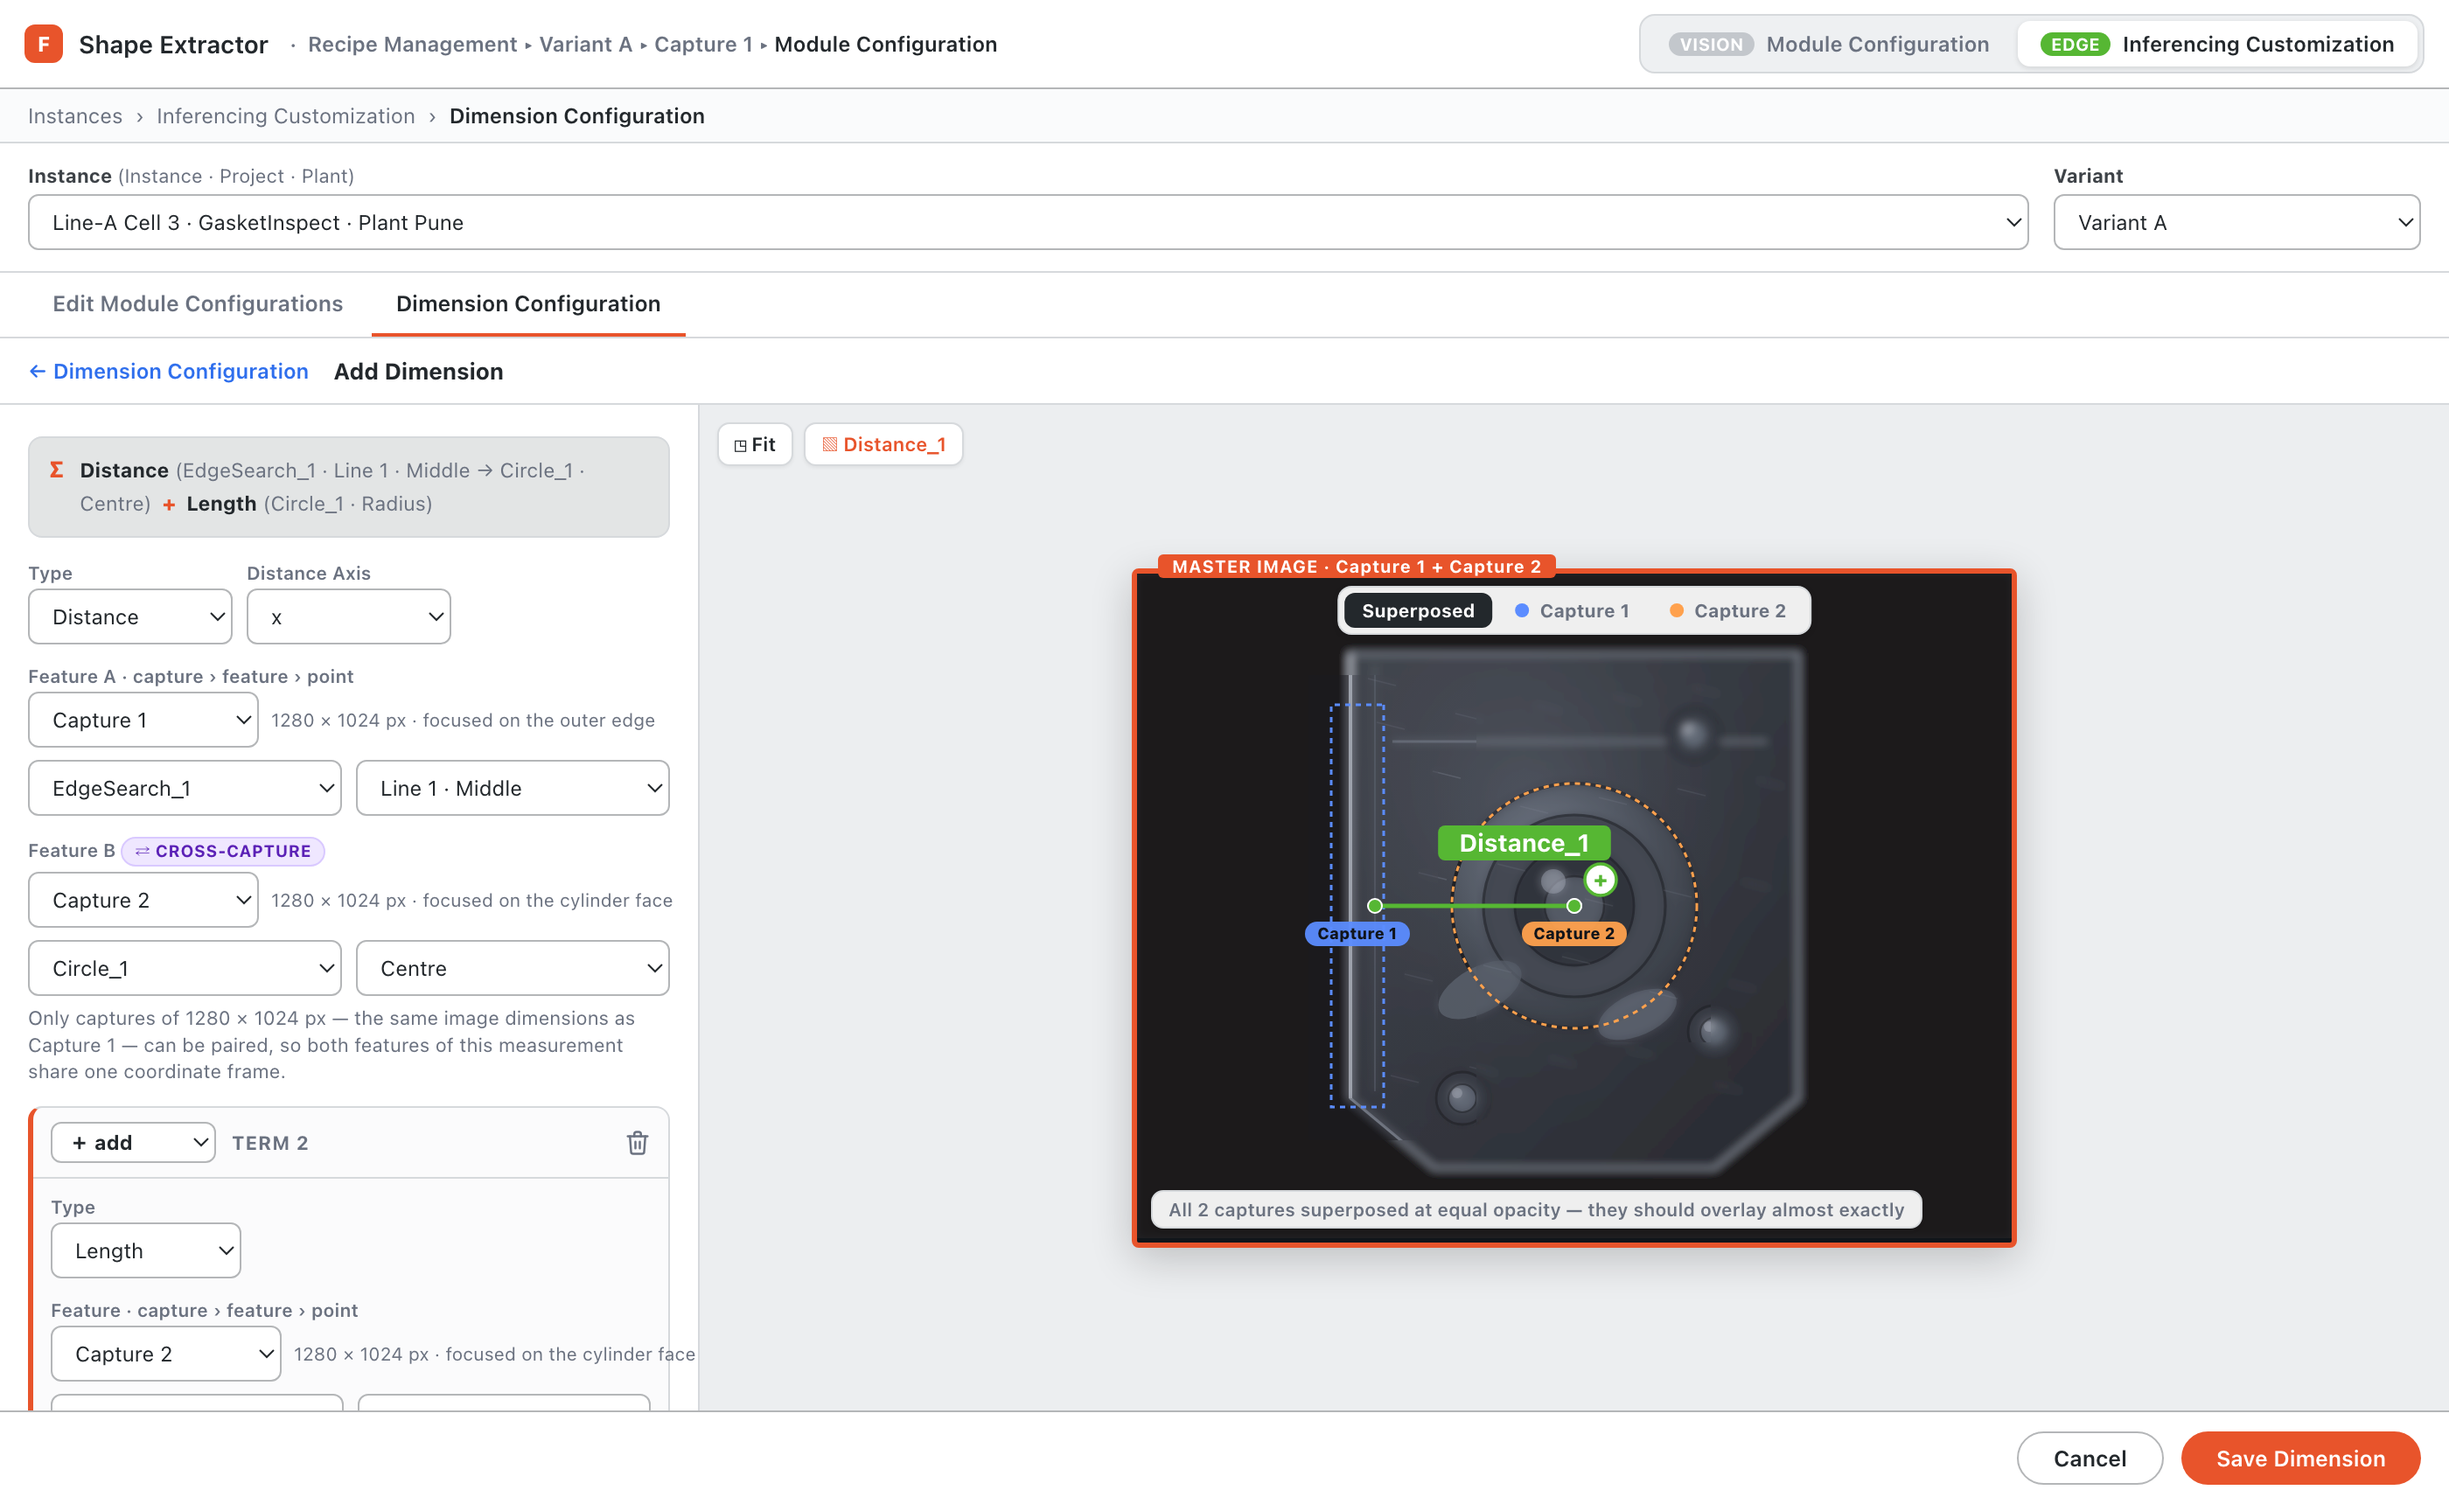
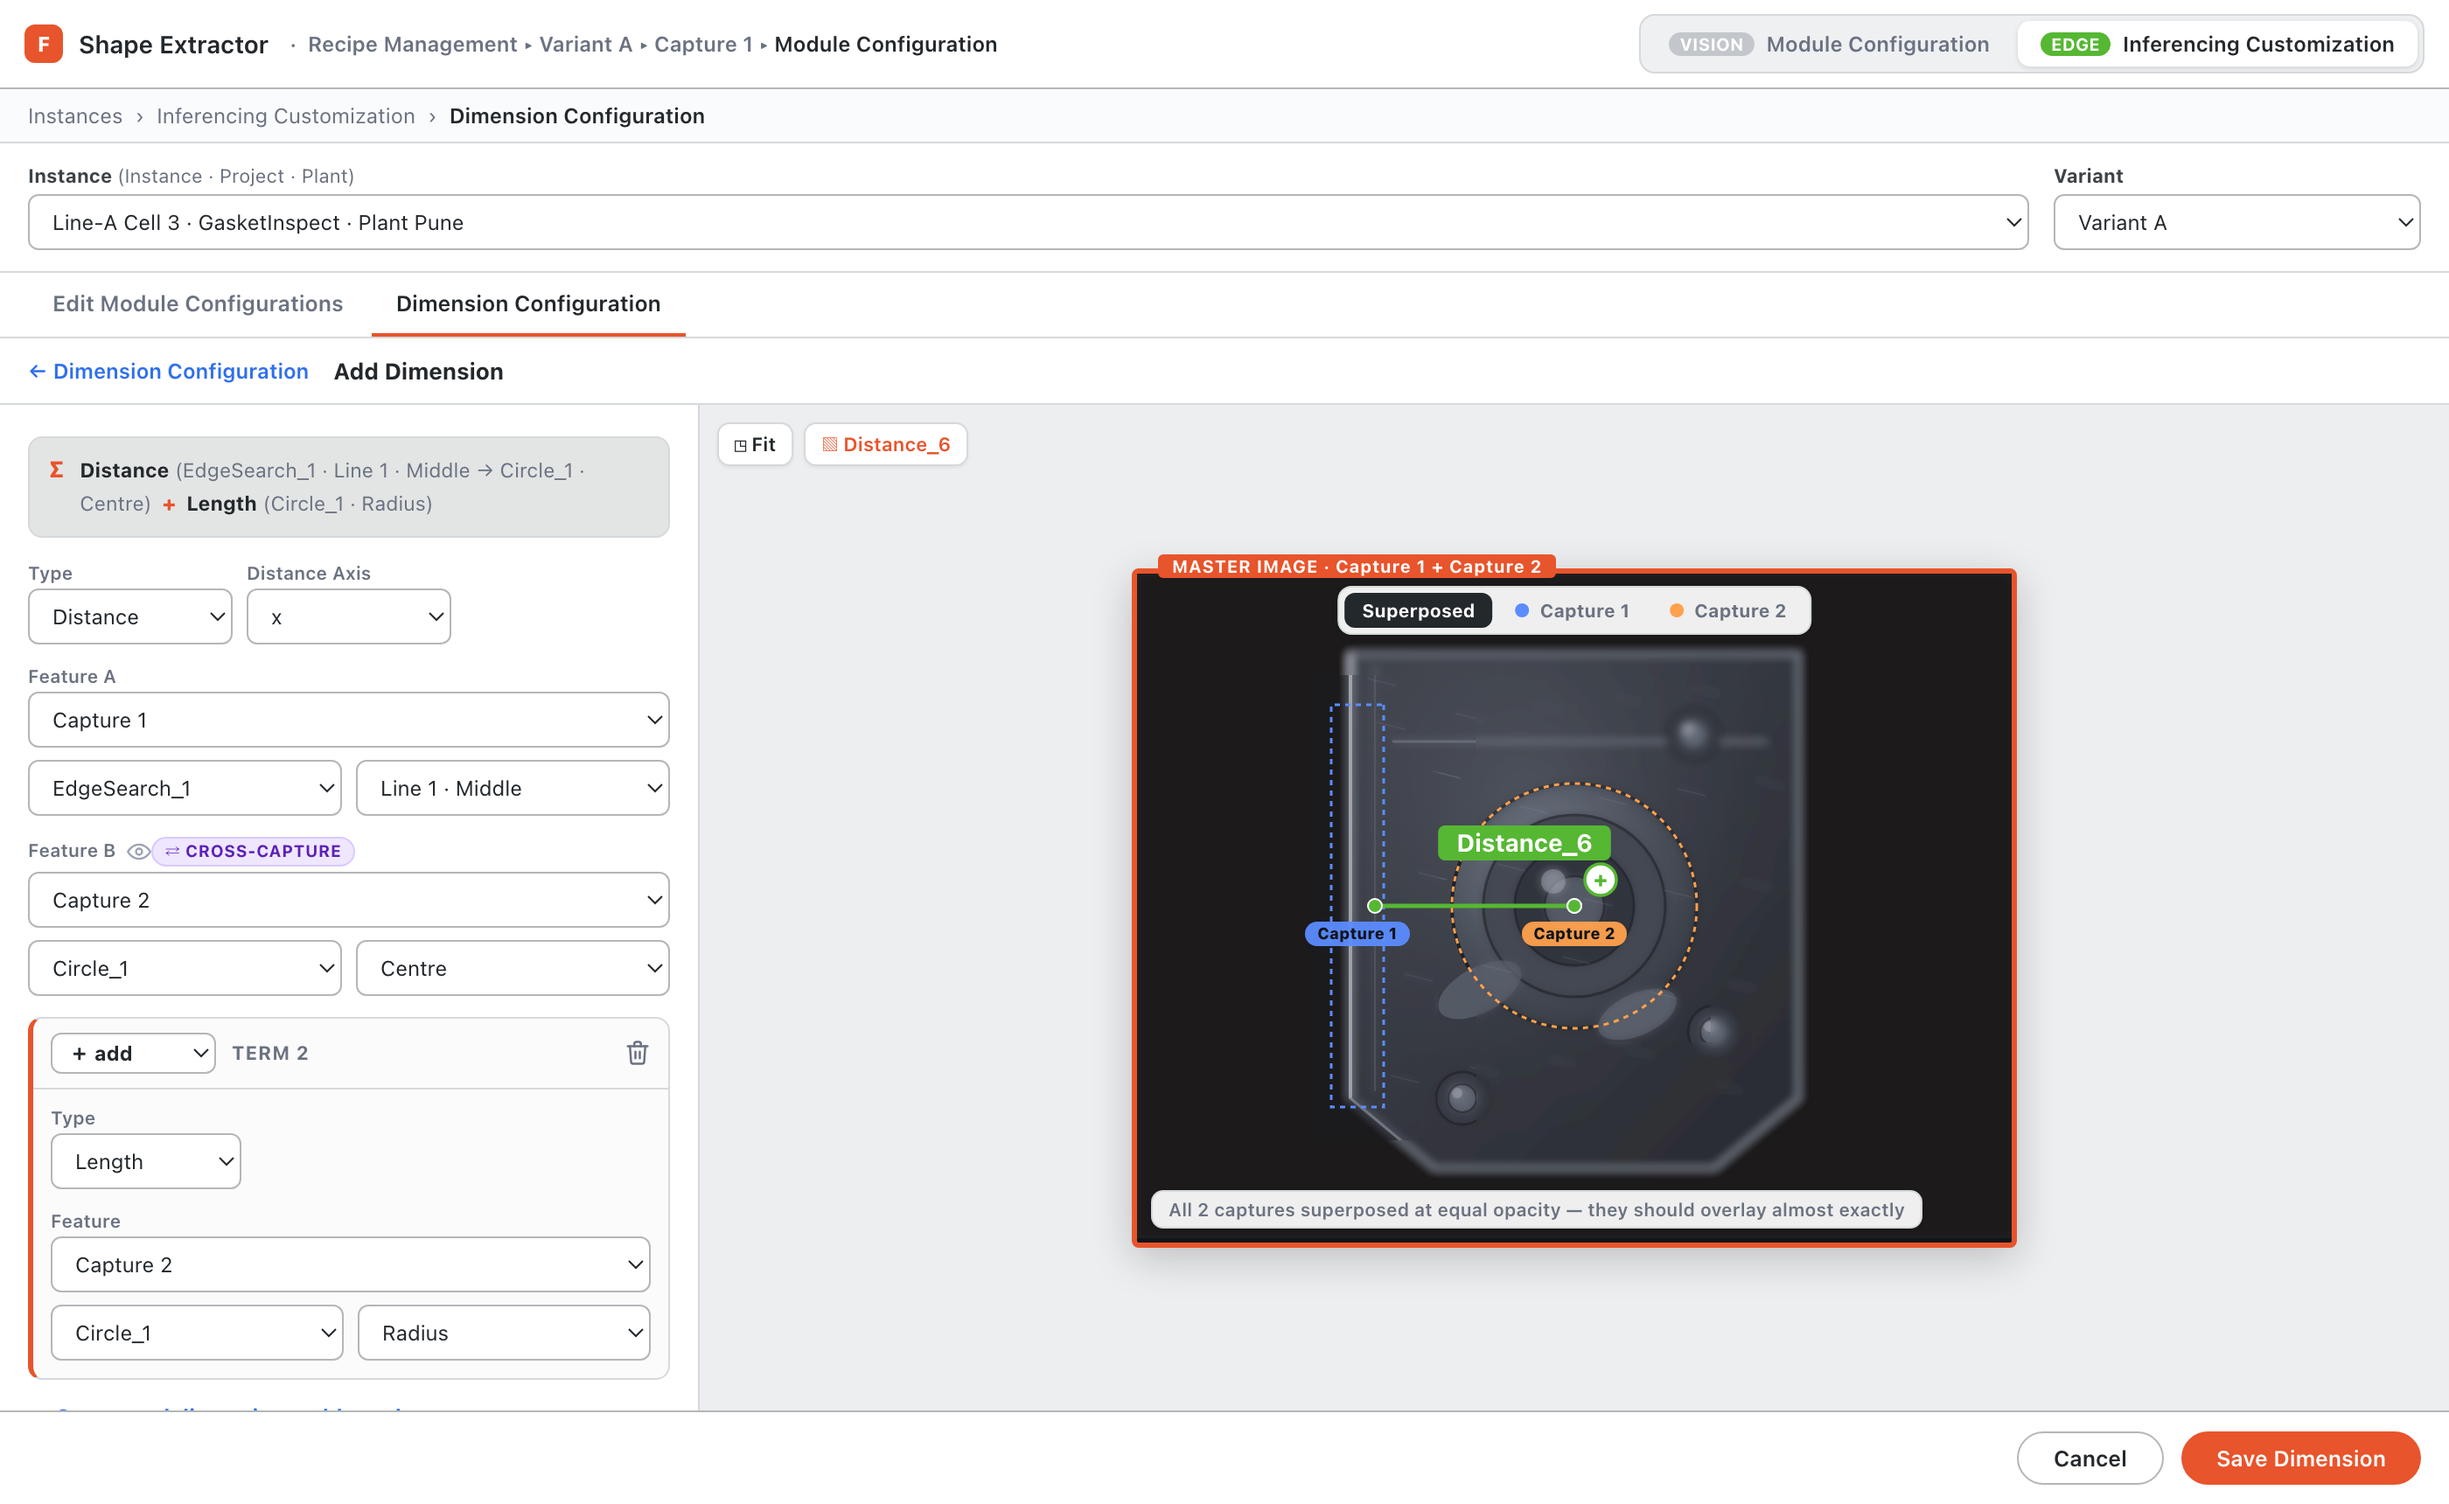
Strip explanatory subtext from the dimension form; pairing rule moves to the eye tooltip

diff --git a/index.html b/index.html
@@ -198,8 +198,7 @@
   .feat .roinput{flex:1;}
   .feat .sel{flex:1;min-width:0;}
   .capline{display:flex;align-items:center;gap:7px;margin-bottom:7px;}
-  .capline .sel{flex:0 0 132px;}
-  .capline .cdims{font-size:10.5px;color:var(--muted);white-space:nowrap;}
+  .capline .sel{flex:1;}
   .xcap{display:inline-flex;align-items:center;gap:5px;background:#efe7ff;color:#5b21b6;border:1px solid #d9c9ff;
     border-radius:20px;padding:2px 9px;font-size:10px;font-weight:700;letter-spacing:.2px;}
   .xcap.sm{padding:1px 7px;font-size:9.5px;}
@@ -1981,7 +1980,6 @@ function FeatureCascade({ node, patch, shapes, typeOpts, onType }) {
       <select className="sel" value={val} onChange={(e) => onCh(e.target.value)}>
         {opts.map((c) => <option key={c.id} value={c.id}>{c.name}</option>)}
       </select>
-      <span className="cdims">{capDims(val)} px · {capById(val).focus}</span>
     </div>
   );
   const shapeSelect = (val, capId, onCh) => (
@@ -2004,24 +2002,24 @@ function FeatureCascade({ node, patch, shapes, typeOpts, onType }) {
           <select className="sel" value={angleMode} onChange={(e) => patch({ angleMode: e.target.value })}>{ANGLE_MODE_OPTS.map((o) => <option key={o}>{o}</option>)}</select></div>}
       </div>
       <div className="field">
-        <span className="tinylab">{twoFeatures ? 'Feature A' : 'Feature'} <span className="sub">· capture › feature › point</span></span>
+        <span className="tinylab">{twoFeatures ? 'Feature A' : 'Feature'}</span>
         {captureSelect(capA, capOptsA, changeCaptureA)}
         <div className="feat">
           {shapeSelect(node.shapeOneId, capA, (e) => changeShape('one', e.target.value))}
           {showSubA && <select className="sel" value={node.shapeOneSelector} onChange={(e) => patch({ shapeOneSelector: e.target.value })}>{subOptsFor(node.shapeOneId).map((f) => <option key={f}>{f}</option>)}</select>}
         </div>
-        {cfg.axis && oneIsPeak && <div className="hint">Peak is itself the point.</div>}
       </div>
       {twoFeatures && (
         <div className="field">
-          <span className="tinylab">Feature B {crossCapture && <span className="xcap sm">⇄ CROSS-CAPTURE</span>}</span>
+          <span className="tinylab">Feature B
+            <span className="eyehint" title={`Only captures of ${capDims(capA)} px — the same image dimensions as ${capLabel(capA)} — can be paired, so both features share one coordinate frame.`}><EyeIcon on={true} /></span>
+            {crossCapture && <span className="xcap sm">⇄ CROSS-CAPTURE</span>}</span>
           {captureSelect(capB, capOptsB, (v) => patch(seedFeature('two', v)))}
           <div className="feat">
             {shapeSelect(node.shapeTwoId, capB, (e) => changeShape('two', e.target.value))}
             {showSubB && <select className="sel" value={node.shapeTwoSelector} onChange={(e) => patch({ shapeTwoSelector: e.target.value })}>{optsB.map((f) => <option key={f}>{f}</option>)}</select>}
           </div>
-          <div className="hint">Only captures of {capDims(capA)} px — the same image dimensions as {capLabel(capA)} — can be paired, so both features of this measurement share one coordinate frame.</div>
-          {cfg.axis && twoIsPeak && <div className="hint">Peak is itself the point.</div>}
+
           {crossPosition && (
             <div className="noteline">
               <span>⚠</span>
@@ -2102,22 +2100,10 @@ function DimensionForm({ draft, setDraft, shapes }) {
         </div>
       ))}
 
-      {compoundEligible(draft.type) ? (
+      {compoundEligible(draft.type) && (
         <button className="configlink" onClick={addTerm}>
           <span className="chev">＋</span> Compound dimension{isCompound ? ' · add another term' : ''}
         </button>
-      ) : (
-        <div className="hint" style={{ marginTop: 4 }}>
-          {cfg.name} cannot be combined with another dimension — only Distance, Length and Area can.
-        </div>
-      )}
-      {compoundEligible(draft.type) && (
-        <div className="hint" style={{ marginTop: 6 }}>
-          {fam === 'area'
-            ? 'An Area may only be combined with another Area.'
-            : 'Distance and Length may be combined in any order (L+L, D+D, L+D).'} Terms may come from
-          different captures — the values are combined after conversion to {FAMILY_UNIT[fam]}.
-        </div>
       )}
 
       {/* ---- name sits directly above ground truth ---- */}
@@ -2135,9 +2121,6 @@ function DimensionForm({ draft, setDraft, shapes }) {
           <div className="block-t" style={{ marginTop: 8 }}>Ground Truth
             {isCompound && <span className="xcap sm" style={{ marginLeft: 8 }}>ON THE COMBINED VALUE</span>}
             <span className="ln" /></div>
-          {isCompound && <div className="hint" style={{ marginBottom: 8 }}>
-            Applied once, to the result of the formula above. The individual terms have no ground truth
-            and produce no pass/fail of their own.</div>}
           <div className="gtgrid">
             <div><span className="tinylab">Operator</span>
               <select className="sel" value={draft.operator} onChange={(e) => patch({ operator: Number(e.target.value) })}><option value={1}>=</option><option value={2}>&gt;</option><option value={3}>&lt;</option></select></div>
@@ -2149,7 +2132,6 @@ function DimensionForm({ draft, setDraft, shapes }) {
                 : <select className="sel" value={draft.unit} onChange={(e) => patch({ unit: e.target.value })}>{UNIT_OPTS.map((u) => <option key={u}>{u}</option>)}</select>}
             </div>
           </div>
-          {isCompound && <div className="hint">Unit is fixed by the family being combined.</div>}
           {draft.type !== 1 && (
             <div className="field" style={{ marginTop: 10 }}>
               <span className="tinylab">Ratio (pixel to mm){caps.length > 1 ? ' · per capture' : ''}</span>
@@ -2167,7 +2149,6 @@ function DimensionForm({ draft, setDraft, shapes }) {
               ) : (
                 <input className="inp" type="number" min="0" step="0.001" value={draft.ratio} onChange={(e) => patch({ ratio: Math.max(0, Number(e.target.value)) })} />
               )}
-              {caps.length > 1 && <div className="hint">Each capture converts its own pixels before the terms are combined.</div>}
             </div>
           )}
         </>
@@ -2194,11 +2175,7 @@ function DimensionForm({ draft, setDraft, shapes }) {
           {LABEL_SIZE_OPTS.map((o) => <option key={o.px} value={o.px}>{o.n}</option>)}
         </select>
       </div>
-      <div className="hint">{isCompound
-        ? `At inference every term is drawn, each marked with its operator, and the combined value is labelled “${draft.name}” once — in the OK colour when in-spec and the NG colour when out of tolerance.`
-        : cfg.gt
-          ? `At inference, this dimension is drawn as a single line labelled “${draft.name}” (label text size set above), in the OK colour when in-spec and the NG colour when out of tolerance.`
-          : `At inference, this dimension is drawn as a single line labelled “${draft.name}” (label text size set above), in the colour set above (${cfg.name} has no ground truth, so there is no OK/NG state).`}</div>
+
     </div>
   );
 }
